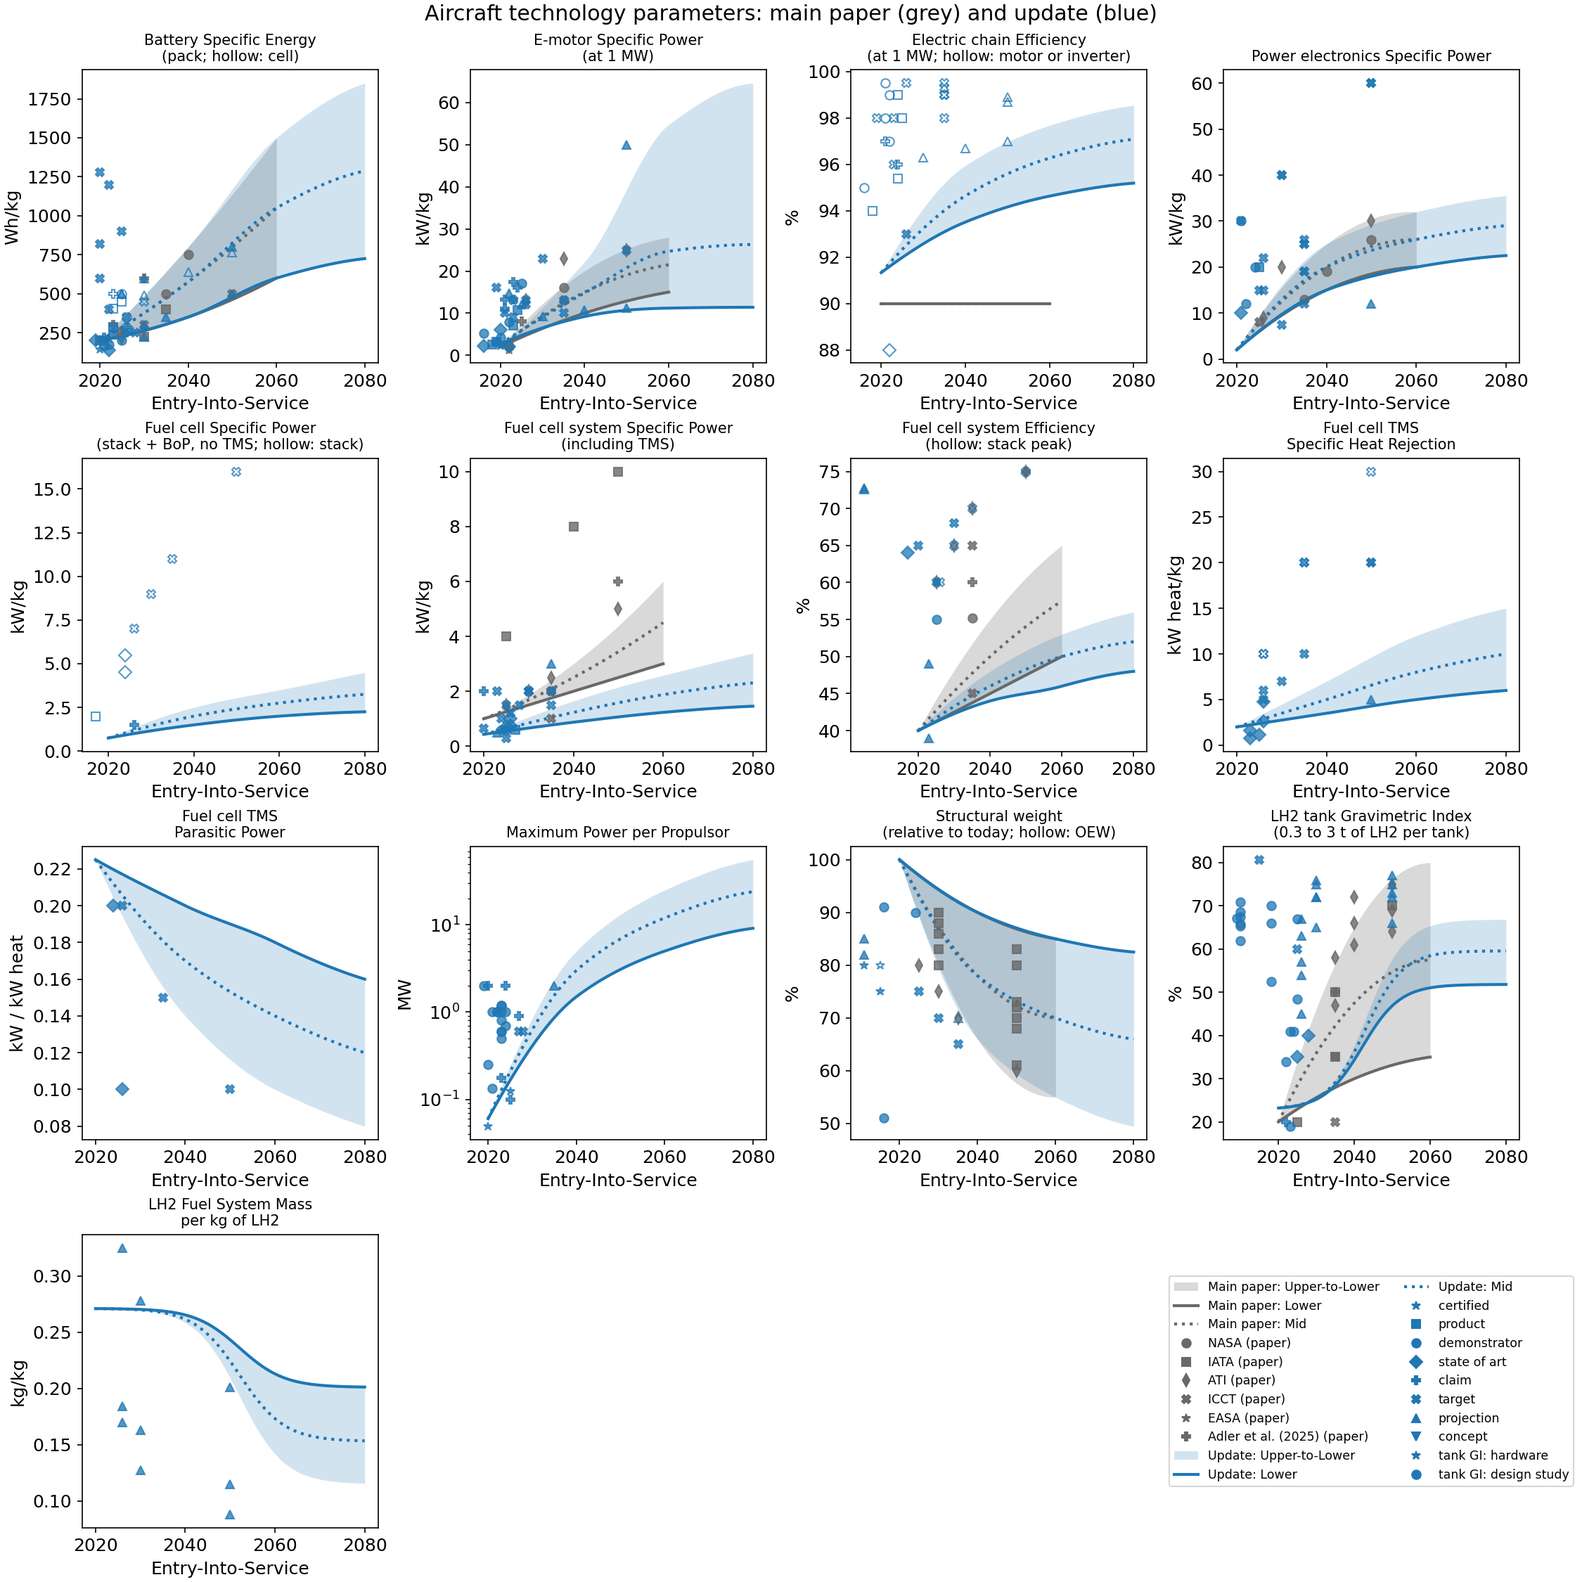
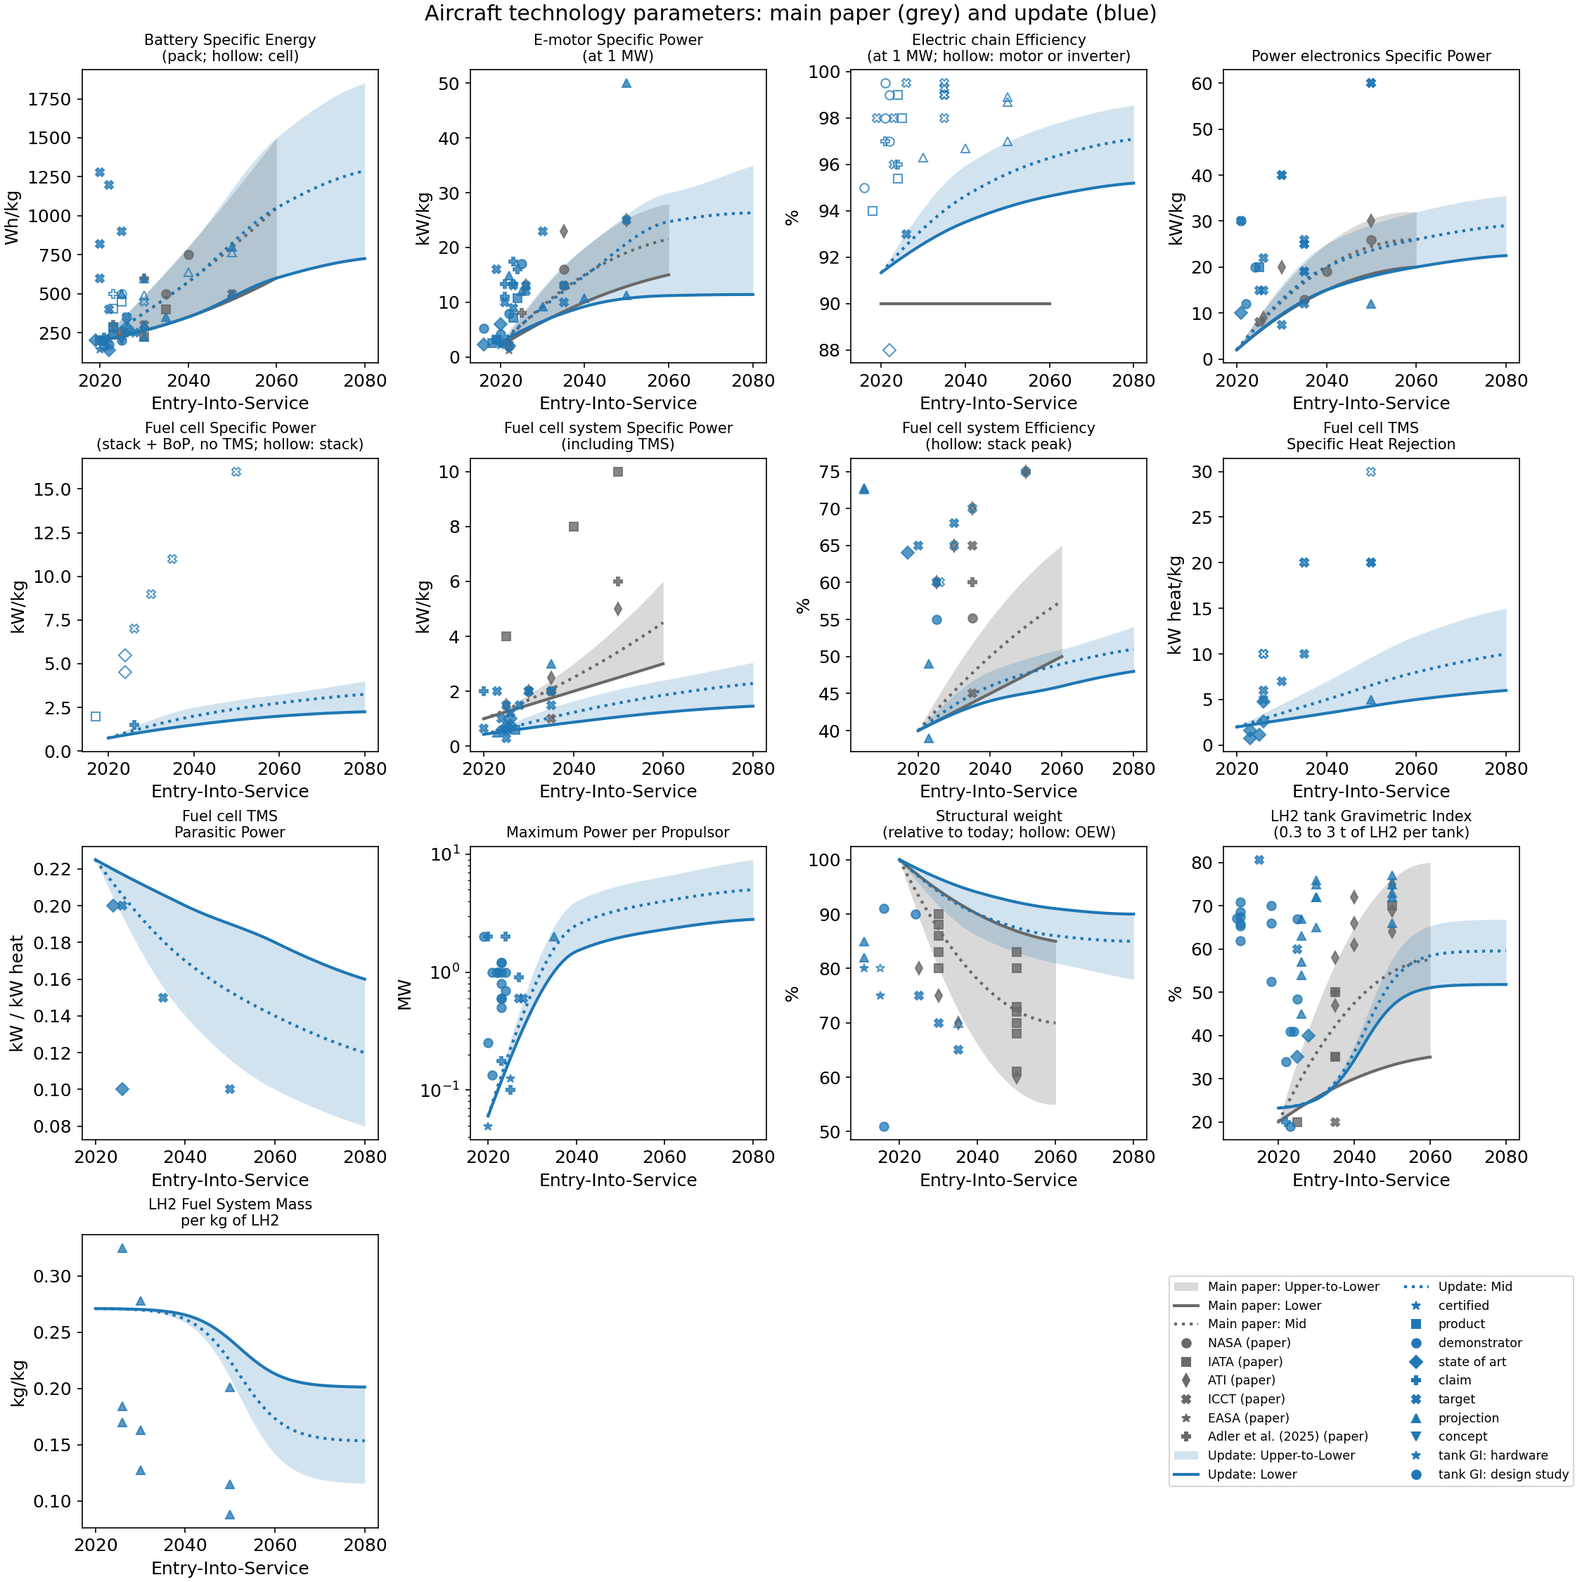
Drop infeasible update designs per market, charge climb at powertrain efficiency
- Electric and fuel cell aircraft enter a market of the update model only
  if feasible by the last EIS (closed, power per propulsor available,
  at least as efficient as the current fleet); the last EIS is now a
  setup argument.
- The update model draws take-off and climb energy at the powertrain
  efficiency instead of a fixed thermal ratio (upstream default kept).
- Document the fuel cell efficiency breakdown; refresh the aircraft
  figures for the revised parameters.

Claude-Session: https://claude.ai/code/session_01Hw29sAYarRQ5FySDmhvs7g

diff --git a/src/noads/application/base_objects.py b/src/noads/application/base_objects.py
@@ -37,6 +37,7 @@ from noads.core.models.energy.energy_mix import EnergyMix
 from noads.core.models.energy.production_pathway import ProductionPathway
 from noads.core.models.energy.streams import Impact
 from noads.core.models.fleet.aircraft_design import AIRCRAFT_MODELS
+from noads.core.models.fleet.aircraft_design import UPDATE_GAM_OPTIONS
 from noads.core.models.fleet.aircraft_design import AircraftDesign
 from noads.core.models.fleet.aircraft_operation import AircraftOperation
 from noads.core.models.fleet.aircraft_operation import PropulsionSystem
@@ -45,6 +46,7 @@ from noads.core.models.fleet.aircraft_tech_parameter import LogisticTechParamete
 from noads.core.models.fleet.aircraft_tech_parameter import ScenarioTechParameter
 from noads.core.models.fleet.fleet import Fleet
 from noads.core.models.fleet.fleet import FleetAssembly
+from noads.gam_jax.models import gam_v3
 
 category_conso = {
     "general": (2.7355931281666916, 1.9140569910448313, 1.4709811219423268),
@@ -380,8 +382,55 @@ def update_power_system(architecture, category):
     return power_system
 
 
+UNIT_POWER_RATIO_MARGIN = 0.98
+"""Largest unit power ratio at the last EIS for a design to enter the update fleet."""
+
+
+def update_design_feasible(
+    prop_name, cat_name, technology_index, last_entry_into_service
+):
+    """Whether an aircraft of the update model can be designed by the last EIS.
+
+    Technology only improves with the entry-into-service, so the design at the last
+    EIS is the best case: it must close, have its power per propulsor available, and
+    be at least as energy efficient as the current fleet of its market, as required
+    by the optimization constraints.
+
+    Args:
+        prop_name: The propulsion architecture.
+        cat_name: The market.
+        technology_index: The technology scenario (0: Lower, 1: Mid, 2: Upper).
+        last_entry_into_service: The last entry-into-service year.
+
+    Returns:
+        Whether the design is feasible at the last entry-into-service.
+    """
+    mission = {
+        **categories_mission[cat_name],
+        **propulsion_mission[prop_name],
+        "category": cat_name,
+    }
+    gam = gam_v3.GAM(
+        **{
+            param.name: param.value_at_entry_into_service(last_entry_into_service)
+            for param in aircraft_tech_params(technology_index, "update")
+        },
+        **UPDATE_GAM_OPTIONS,
+    )
+    design = gam.design_airplane(update_power_system(prop_name, cat_name), mission)
+    energy_per_ask = 1.0e-3 * float(design["enrg_consumption"])
+    return (
+        float(design["closed"]) > 0.5
+        and float(design["unit_power_ratio"]) <= UNIT_POWER_RATIO_MARGIN
+        and energy_per_ask <= category_conso[cat_name][technology_index]
+    )
+
+
 def initialize_base_objects(
-    drop_in_only=False, technology_index=0, aircraft_model="paper"
+    drop_in_only=False,
+    technology_index=0,
+    aircraft_model="paper",
+    last_entry_into_service=2060.0,
 ):
     """Build the energy mix and global fleet of the paper's scenarios.
 
@@ -396,6 +445,10 @@ def initialize_base_objects(
             the paper) or ``"update"`` (GAM V3.0 with powertrain scale effects,
             fuel cell propulsor counts, maximum power per propulsor, and
             size-dependent LH2 tanks).
+        last_entry_into_service: The last entry-into-service of new aircraft. With
+            the update model, the electric and fuel cell aircraft of a market are
+            included only if they are feasible by then
+            (:func:`update_design_feasible`).
 
     Returns:
         The energy mix and the fleet assembly.
@@ -613,24 +666,23 @@ def initialize_base_objects(
                 power_system = update_power_system(prop_name, cat_name)
             else:
                 power_system = propulsion_architectures[prop_name]
-            if "Electric" in prop_name:
-                if cat_name == "general" or (
+            if aircraft_model == "update" and (
+                "Electric" in prop_name or "FuelCell" in prop_name
+            ):
+                included = update_design_feasible(
+                    prop_name, cat_name, technology_index, last_entry_into_service
+                )
+            elif "Electric" in prop_name:
+                # Electric aircraft always included for general market, commuter
+                # market only if not lower technology
+                included = cat_name == "general" or (
                     cat_name == "commuter" and technology_index > 0
-                ):
-                    # Electric aircraft always included for general market, commuter
-                    # market only if not lower technology
-                    aircraft.append(
-                        AircraftDesign(
-                            name=f"{prop_name}_{cat_name}",
-                            propulsion=prop_systems[prop_name],
-                            mission=mission,
-                            power_system=power_system,
-                            aircraft_tech_params=tech_params,
-                            aircraft_model=aircraft_model,
-                            reference_aircraft=aircraft_reference_2019,
-                        )
-                    )
-            elif "JetA-GasTurbine" in prop_name:
+                )
+            else:
+                included = True
+            if not included:
+                continue
+            if "JetA-GasTurbine" in prop_name:
                 aircraft.extend((
                     AircraftDesign(
                         name=f"{prop_name}-v1_{cat_name}",

diff --git a/src/noads/application/scenario_setup.py b/src/noads/application/scenario_setup.py
@@ -75,6 +75,7 @@ def single_scenario_setup(
     plot_scenario_data=False,
     compile_jit=True,
     aircraft_model="paper",
+    last_entry_into_service=None,
 ):
     """Set up a single-objective decarbonization scenario.
 
@@ -91,8 +92,8 @@ def single_scenario_setup(
         name: The name of the scenario.
         background_scenario_name: The AR6 background scenario (e.g. ``"SSP2-26"``).
         start_year: The first simulated year.
-        end_year: The last simulated year. Defaults to 2075 with the paper aircraft
-            model and to 2100 with the update one.
+        end_year: The last simulated year. Defaults to 2075 with both aircraft
+            models (:data:`END_YEAR`).
         time_step: The simulation time step in years.
         interp_step: The spacing in years of the control knots.
         technology_index: The aircraft technology scenario (0: Lower, 1: Mid,
@@ -112,6 +113,10 @@ def single_scenario_setup(
             size-dependent LH2 tanks). The update model also constrains the power
             per propulsor of electric and fuel cell designs to the maximum
             available at their entry-into-service.
+        last_entry_into_service: The last entry-into-service of new aircraft
+            (except the first Jet-A generation). Defaults to 2060 with both aircraft
+            models (:data:`LAST_ENTRY_INTO_SERVICE`); up to 2080 with the update
+            model, whose technology parameters are defined until then.
 
     Returns:
         The temporal scenario, the design space, the constraints (mapping each
@@ -120,9 +125,11 @@ def single_scenario_setup(
     resources_fair_share = 8.6e-2 if preferential_energy else 5.0e-2
     if end_year is None:
         end_year = END_YEAR[aircraft_model]
+    if last_entry_into_service is None:
+        last_entry_into_service = LAST_ENTRY_INTO_SERVICE[aircraft_model]
     ar6_data, years_data = _ar6_input_data(end_year, plot_scenario_data)
     energy_mix, fleet = initialize_base_objects(
-        drop_in_only, technology_index, aircraft_model
+        drop_in_only, technology_index, aircraft_model, last_entry_into_service
     )
 
     temporal_constraints = [
@@ -409,7 +416,7 @@ def single_scenario_setup(
                     upper_bound=(
                         2047.5
                         if "JetA-GasTurbine-v1" in aircraft.name
-                        else LAST_ENTRY_INTO_SERVICE[aircraft_model]
+                        else last_entry_into_service
                     ),
                     # value=2060.0,
                     value=2035.0
@@ -484,6 +491,7 @@ def multi_scenario_setup(
     preferential_energy=False,
     plot_scenario_data=False,
     aircraft_model="paper",
+    last_entry_into_service=None,
 ):
     """Set up a decarbonization scenario robust to several background scenarios.
 
@@ -494,6 +502,8 @@ def multi_scenario_setup(
     mix variables are scenario-specific, and ensemble-mean outputs (``mean.``
     prefix) are exposed for the robust objective.
     """
+    if end_year is None:
+        end_year = END_YEAR[aircraft_model]
     temporal_scenario, _, constraints, energy_mix, fleet = single_scenario_setup(
         name=name,
         background_scenario_name=background_scenario_names[0],
@@ -509,6 +519,7 @@ def multi_scenario_setup(
         preferential_energy=preferential_energy,
         plot_scenario_data=plot_scenario_data,
         aircraft_model=aircraft_model,
+        last_entry_into_service=last_entry_into_service,
     )
     final_rates = temporal_scenario.final_rates
     meaned = [

diff --git a/tests/test_update_aircraft_model.py b/tests/test_update_aircraft_model.py
@@ -25,6 +25,7 @@ import pytest
 from noads._data import data_file
 from noads.application import lh2_tank_calibration as calibration
 from noads.application.base_objects import aircraft_tech_params
+from noads.application.base_objects import categories_mission
 from noads.application.base_objects import fuelcell_engine_count
 from noads.application.base_objects import initialize_base_objects
 from noads.application.base_objects import lh2_tank_tech_params_lower_mid_upper
@@ -342,7 +343,10 @@ def test_paper_tech_params_unchanged():
 
 
 def test_base_objects_with_update_model():
-    _, fleet = initialize_base_objects(technology_index=1, aircraft_model="update")
+    # Upper technology until 2080: fuel cell aircraft are feasible in all markets
+    _, fleet = initialize_base_objects(
+        technology_index=2, aircraft_model="update", last_entry_into_service=2080.0
+    )
     designs = {
         aircraft.name: aircraft
         for aircraft in fleet.operating_aircraft
@@ -442,3 +446,39 @@ def test_scenario_setup_unit_power_constraints():
             assert constraints[name] == (1.0, False)
         else:
             assert name not in constraints
+
+
+def _electric_and_fuel_cell(fleet):
+    return {
+        aircraft.name
+        for fleet_i in fleet.fleets
+        for aircraft in fleet_i.operating_aircraft
+        if "Electric" in aircraft.name or "FuelCell" in aircraft.name
+    }
+
+
+def test_update_fleet_drops_infeasible_designs():
+    """Electric and fuel cell designs enter a market only if feasible by the last
+    EIS, while the paper fleets are unchanged."""
+    _, lower = initialize_base_objects(False, 0, "update", 2060.0)
+    _, mid = initialize_base_objects(False, 1, "update", 2060.0)
+    _, extended = initialize_base_objects(False, 2, "update", 2080.0)
+    assert "lH2-FuelCell_long_range" not in _electric_and_fuel_cell(lower)
+    assert "lH2-FuelCell_general" in _electric_and_fuel_cell(mid)
+    assert "lH2-FuelCell_long_range" in _electric_and_fuel_cell(extended)
+    _, paper = initialize_base_objects(False, 0, "paper")
+    assert _electric_and_fuel_cell(paper) == {
+        "Battery-Electric_general",
+        *(f"lH2-FuelCell_{category}" for category in categories_mission),
+    }
+
+
+def test_climb_at_powertrain_efficiency():
+    """Take-off and climb drawn at the powertrain efficiency cost more energy than
+    the mechanical energy counted by upstream GAM V3.0, which stays the default."""
+    upstream = GAM(**TECH).design_airplane(dict(FC_SYSTEM), dict(REGIONAL))
+    consistent = GAM(**TECH, climb_at_powertrain_efficiency=True).design_airplane(
+        dict(FC_SYSTEM), dict(REGIONAL)
+    )
+    assert float(consistent["mission_enrg"]) > float(upstream["mission_enrg"])
+    assert float(consistent["mtow"]) > float(upstream["mtow"])

diff --git a/src/noads/gam_jax/models/gam_v3.py b/src/noads/gam_jax/models/gam_v3.py
@@ -146,6 +146,7 @@ class GAM:
         lh2tank_mass_factor=None,
         lh2_fuel_system_ratio=0.0,
         lh2tank_size_law=LH2_TANK_SIZE_LAW,
+        climb_at_powertrain_efficiency=False,
     ):
         """Initialize GAM with the technology parameters.
 
@@ -154,6 +155,11 @@ class GAM:
         cell specific power including its thermal management (upstream behaviour).
 
         Args:
+            climb_at_powertrain_efficiency: Whether the take-off and climb energy
+                (mechanical) is drawn from the energy source at the cruise
+                efficiency of the powertrain. Otherwise (upstream GAM V3.0), the
+                fuel is that of a thermal engine (``fuel_energy_ratio``) whatever
+                the powertrain, and the energy counts the mechanical energy only.
             battery_specific_energy: Battery specific energy (Wh/kg).
             emotor_specific_power: Electric motor specific power (kW/kg).
             lh2tank_gravimetric_index: LH2 tank gravimetric index (%).
@@ -365,6 +371,7 @@ class GAM:
         self.fuel_cell_power_exponent = fuelcell_power_exponent
         self.fuel_cell_efficiency_exponent = fuelcell_efficiency_exponent
         self.max_unit_power = 1e6 * max_unit_power
+        self.climb_at_powertrain_efficiency = climb_at_powertrain_efficiency
 
         # Energy storage
         self.battery_enrg_density = unit.J_Wh(battery_specific_energy)
@@ -826,7 +833,15 @@ class GAM:
         mission_enrg = self.take_off_energy(total_power) + self.climb_energy(
             tow, cruise_altp
         )
-        if not is_battery:
+        if self.climb_at_powertrain_efficiency:
+            _pamb, tamb, _g = phd.atmosphere_g(cruise_altp, self.disa)
+            tas, _mach = self.get_tas(tamb, cruise_speed, speed_type)
+            mission_enrg = mission_enrg / self.get_engine_eff(
+                power_system, tas, max_power
+            )
+            if not is_battery:
+                mission_fuel += mission_enrg / fuel_heat(power_system["energy_type"])
+        elif not is_battery:
             mission_fuel += mission_enrg * (
                 self.fuel_energy_ratio / fuel_heat(power_system["energy_type"])
             )

diff --git a/docs/examples/models/aircraft/plot_prospective_aircraft_update.py b/docs/examples/models/aircraft/plot_prospective_aircraft_update.py
@@ -56,6 +56,7 @@ from noads.application.base_objects import propulsion_mission
 from noads.application.base_objects import tech_params_lower_mid_upper_2020_2040_2060
 from noads.application.base_objects import update_comparison_mission
 from noads.application.base_objects import update_power_system
+from noads.core.models.fleet.aircraft_design import UPDATE_GAM_OPTIONS
 from noads.core.models.fleet.aircraft_tech_parameter import AircraftTechParameter
 from noads.gam_jax.models import gam_v3
 from noads.gam_jax.models.gam_v3 import LH2_TANK_SIZE_LAW
@@ -575,7 +576,10 @@ def design_sweep(category, architecture, tech_idx):
     hydrogen = power_system["energy_type"] == "liquid_h2"
 
     def design(eis):
-        gam = gam_v3.GAM(**{p.name: p.value_at_entry_into_service(eis) for p in params})
+        gam = gam_v3.GAM(
+            **{p.name: p.value_at_entry_into_service(eis) for p in params},
+            **UPDATE_GAM_OPTIONS,
+        )
         result = gam.design_airplane(dict(power_system), dict(mission))
         outputs = {name: result[name] for name in DESIGN_OUTPUTS}
         if hydrogen:

diff --git a/src/noads/core/models/fleet/aircraft_design.py b/src/noads/core/models/fleet/aircraft_design.py
@@ -35,6 +35,10 @@ if TYPE_CHECKING:
     from noads.core.models.fleet.aircraft_tech_parameter import AircraftTechParameter
 
 
+UPDATE_GAM_OPTIONS = {"climb_at_powertrain_efficiency": True}
+"""Modelling options of the GAM V3.0 port used by the update aircraft model."""
+
+
 class AircraftDesign(AircraftOperation):
     """A prospective aircraft, designed on the fly with the Generic Airplane Model.
 
@@ -131,7 +135,8 @@ class AircraftDesign(AircraftOperation):
             for tech_param_name, value in tech_params.items()
         }
         gam_class = gam_v3.GAM if self.aircraft_model == "update" else GAM
-        model = gam_class(**tech_params)
+        options = UPDATE_GAM_OPTIONS if self.aircraft_model == "update" else {}
+        model = gam_class(**tech_params, **options)
         final_design = model.design_airplane(dict(self.power_system), self.mission)
 
         output_data.update({

diff --git a/docs/update/aircraft_design.md b/docs/update/aircraft_design.md
@@ -127,6 +127,32 @@ The literature values are bundled in
 2026, with their source, scope and status). Most of them come from abstracts and
 summaries rather than full texts, and should be checked before being quoted.
 
+### Fuel cell efficiency
+
+The overall efficiency of fuel cell aircraft (hydrogen to thrust power at cruise) is
+the product of the fuel cell system efficiency, net of the TMS parasitic power
+($\eta - L(1 - \eta)$), the electric chain efficiency and the propeller or fan
+efficiency. In the Mid scenario it is 28 % for an EIS in 2040 (fuel cell 46 %, net
+37 %, electric chain 0.95 to 0.97, propeller 0.80) and 32 % in 2060 (49 %, net 42 %),
+within the 30 to 40 % of system-level studies. It applies to cruise, diversion and
+holding, and does not depend on the power per propulsor.
+
+The upstream GAM V3.0 draws the take-off and climb energy (mechanical) from the fuel
+as a thermal engine would (about 44 % efficiency), whatever the powertrain, and
+counts only the mechanical energy in the mission energy. The update model draws it
+at the cruise efficiency of each powertrain
+({data}`~noads.core.models.fleet.aircraft_design.UPDATE_GAM_OPTIONS`), which raises
+the energy per ASK by 1 % (long range) to 23 % (general turbofans), and by 13 % for
+general fuel cell aircraft.
+
+Fuel cell aircraft remain much more efficient than turbofans on the small markets
+because the turbofans of GAM V3.0 lose efficiency with size: 13 % (general) to 21 %
+(commuter) overall, against 29 % (regional) to 39 % (long range). Turboprops are the
+relevant thermal reference there ({numref}`fig-update-propulsion-efficiency`). Two
+optimistic simplifications remain for all LH2 aircraft: the lift-to-drag ratio does
+not account for the larger fuselage holding the tanks, and the TMS drag is only
+included through its parasitic power.
+
 ### Design closure
 
 The MTOW of an aircraft is the root of its mass balance, found with Newton's method
